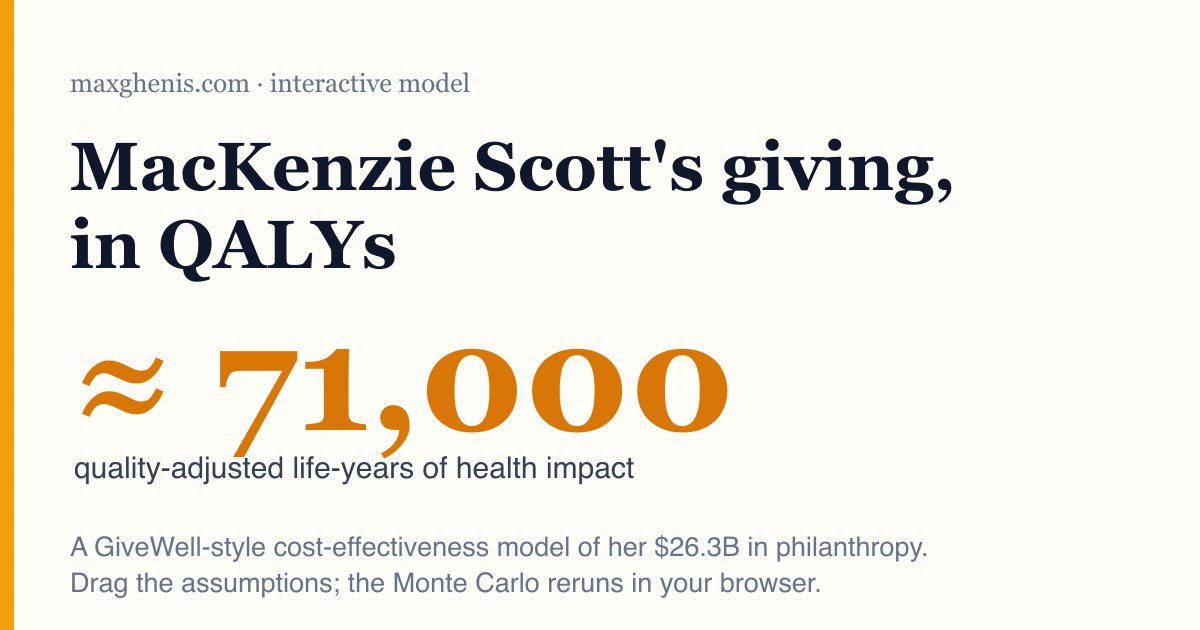
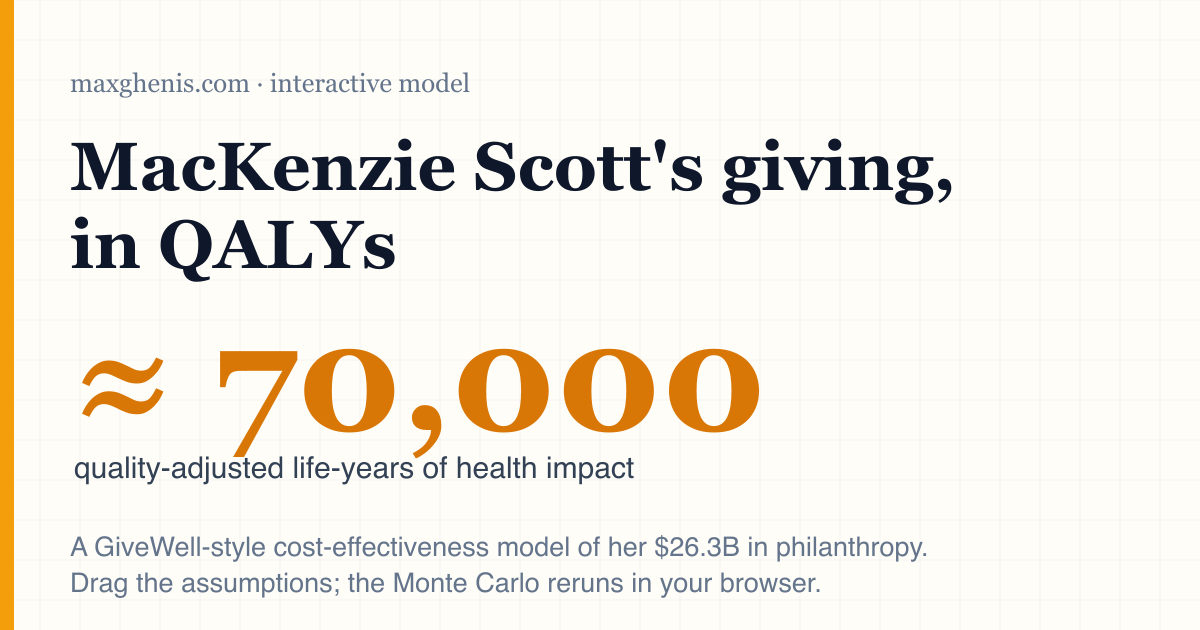
QALY round 7: impute undisclosed gifts from 990 revenue
Sync params (allocation now covers all $26.4B: disclosed two-thirds +
undisclosed third imputed from year residuals scaled by pre-gift IRS
990 revenue^0.41, matches audited by gpt-5.6-terra). Median ~70k,
credulous ~200k, blended $435k, frontier ~1,510x. Page, blog (round-7
sentence + prompts 26-29), og card, test reference updated.

Changed region(s): [[0.2467, 0.5429, 0.6475, 0.7238]]

diff --git a/scripts/generate-og-mackenzie.ts b/scripts/generate-og-mackenzie.ts
@@ -31,7 +31,7 @@ const svg = `
   <text x="70" y="190" font-family="Georgia, serif" font-weight="700" font-size="68" fill="${ink}">MacKenzie Scott's giving,</text>
   <text x="70" y="268" font-family="Georgia, serif" font-weight="700" font-size="68" fill="${ink}">in QALYs</text>
 
-  <text x="70" y="430" font-family="Georgia, serif" font-weight="700" font-size="150" fill="${amberDark}">≈ 71,000</text>
+  <text x="70" y="430" font-family="Georgia, serif" font-weight="700" font-size="150" fill="${amberDark}">≈ 70,000</text>
   <text x="74" y="478" font-family="Helvetica, Arial, sans-serif" font-size="30" fill="${inkSoft}">quality-adjusted life-years of health impact</text>
 
   <text x="70" y="556" font-family="Helvetica, Arial, sans-serif" font-size="27" fill="${inkMuted}">A GiveWell-style cost-effectiveness model of her $26.3B in philanthropy.</text>

diff --git a/src/lib/mackenzie-qaly.test.ts b/src/lib/mackenzie-qaly.test.ts
@@ -17,7 +17,7 @@ import {
 
 // Reference values from the Python model (n=100k seed=0, round 3):
 //   giving $30.30B (2026$, from $26.39B nominal disclosed tranches)
-//   median 70,398 · mean 77,251 · p05 37,809 · p95 139,018
+//   median 69,538 · mean 76,179 · p05 37,637 · p95 135,905
 //   blended $349,922/QALY · benefit-cost 2.12 (HHS VQALY) · frontier multiple 1,215
 // Monte Carlo output is RNG-sensitive, so we assert distributional agreement
 // with generous tolerances, not bit-parity.

diff --git a/src/content/blog/mackenzie-scott-giving-in-qalys/index.md b/src/content/blog/mackenzie-scott-giving-in-qalys/index.md
@@ -6,7 +6,7 @@ heroImage: './hero.png'
 projectUrl: '/mackenzie-scott-qaly'
 ---
 
-MacKenzie Scott gave away [$7 billion in 2025](https://www.cnbc.com/2025/12/13/mackenzie-scott-revealed-her-total-charitable-donations-for-2025.html) — [about a third of every megagift in America that year](https://fortune.com/2026/06/25/mackenzie-scott-largest-megadonor-2025-7-billion-donations-giving-usa-iu-report/), by the Indiana University Lilly Family School of Philanthropy's count. Almost none of it is denominated in health. I built an interactive tool that asks what her [$26 billion](https://yieldgiving.com/) in lifetime giving buys in the unit health economists use to compare lives — quality-adjusted life-years: **[maxghenis.com/mackenzie-scott-qaly](/mackenzie-scott-qaly)**. Drag the assumptions and a Monte Carlo cost-effectiveness model reruns in your browser; on the skeptical default it lands around 71,000 QALYs — a model output, not a measured fact, which is why the tool exists: move the assumptions yourself.
+MacKenzie Scott gave away [$7 billion in 2025](https://www.cnbc.com/2025/12/13/mackenzie-scott-revealed-her-total-charitable-donations-for-2025.html) — [about a third of every megagift in America that year](https://fortune.com/2026/06/25/mackenzie-scott-largest-megadonor-2025-7-billion-donations-giving-usa-iu-report/), by the Indiana University Lilly Family School of Philanthropy's count. Almost none of it is denominated in health. I built an interactive tool that asks what her [$26 billion](https://yieldgiving.com/) in lifetime giving buys in the unit health economists use to compare lives — quality-adjusted life-years: **[maxghenis.com/mackenzie-scott-qaly](/mackenzie-scott-qaly)**. Drag the assumptions and a Monte Carlo cost-effectiveness model reruns in your browser; on the skeptical default it lands around 70,000 QALYs — a model output, not a measured fact, which is why the tool exists: move the assumptions yourself.
 
 It runs the same machinery as the [GiveWell cost-effectiveness replication](/blog/givewell-cea/) I built in February — editable parameters, Monte Carlo, sensitivity analysis — pointed at a different question. GiveWell scores the most cost-effective charities in the world. This points the same lens at one donor's actual $26B portfolio, most of it unrestricted gifts to US organizations, where almost none of the spending is denominated in health to begin with.
 
@@ -22,7 +22,7 @@ I built this with two coding agents, and the more useful part was letting them c
 
 Two further full review rounds (both models, against everything) caught more, and the fixes moved the headline from ~98,000 to ~87,000: gifts are now recorded as the exact disclosed tranches and inflated to 2026 dollars year by year instead of divided nominal-vs-current; the community-health-center figure now uses the paper's own [~$54k per life-year](https://pmc.ncbi.nlm.nih.gov/articles/PMC4436657/) with an explicit life-year→QALY conversion (the old version skipped it); several 2000s-era cost-effectiveness anchors got inflated to current dollars; the frontier benchmark was re-derived twice — first for discounting consistency, then onto [GiveWell's current program averages](https://www.givewell.org/impact-estimates) — cutting the headline multiple by about 40%; the benefit/cost ratio now uses [HHS's published value per QALY](https://aspe.hhs.gov/reports/standard-ria-values) instead of a per-life-year value applied to QALYs; and one citation was re-attributed to the paper the numbers actually come from — [Sommers (2017)](https://www.journals.uchicago.edu/doi/10.1162/ajhe_a_00080), verified against the PDF, after I'd confidently planted the wrong one. Every correction made the model more skeptical or more honest, none was caught by a human, and the errors had survived earlier review passes.
 
-The allocation across causes was still my prior, though — I'd accepted "Scott doesn't publish dollars-by-cause" without checking hard enough. She publishes better: [Yield Giving's gift database](https://yieldgiving.com/gifts) itemizes dollar amounts for about two-thirds of the money, with focus areas on every disclosed dollar. Deriving the split from her own data — 53 org-reported areas mapped onto the model's 13 archetypes, [every rule documented](https://github.com/MaxGhenis/mackenzie-scott-qaly/blob/main/data/yieldgiving/leaf_to_archetype.yaml) — cut the skeptical median from ~87,000 to ~71,000. Her real portfolio holds less food, housing, and cash assistance than I'd assumed (the buckets with the strongest health evidence) and more workforce development and nonprofit infrastructure (which have almost none).
+The allocation across causes was still my prior, though — I'd accepted "Scott doesn't publish dollars-by-cause" without checking hard enough. She publishes better: [Yield Giving's gift database](https://yieldgiving.com/gifts) itemizes dollar amounts for about two-thirds of the money, with focus areas on every disclosed dollar. Deriving the split from her own data — 53 org-reported areas mapped onto the model's 13 archetypes, [every rule documented](https://github.com/MaxGhenis/mackenzie-scott-qaly/blob/main/data/yieldgiving/leaf_to_archetype.yaml) — cut the skeptical median from ~87,000 to ~70,000. Her real portfolio holds less food, housing, and cash assistance than I'd assumed (the buckets with the strongest health evidence) and more workforce development and nonprofit infrastructure (which have almost none). The undisclosed third isn't dropped: her essays give each year's total, so the residual is a known dollar amount, spread over that year's undisclosed gifts in proportion to the recipient's pre-gift [IRS 990 revenue](https://projects.propublica.org/nonprofits/) raised to an elasticity fit on the disclosed pairs (0.41 — her gifts scale sub-linearly with organization size), with the fuzzy name-to-EIN matches audited by a third model, a small one, against the live API. The imputed third moves each cause share by at most ~1.5 points — the disclosed two-thirds was representative.
 
 None of the model code was hand-written; the whole thing was natural-language prompting. For transparency, here is every prompt I typed, verbatim — typos and all.
 
@@ -55,6 +55,10 @@ None of the model code was hand-written; the whole thing was natural-language pr
 23. then could you just make the 90% interval below in small text instead of a separate card, also add to the $/qaly
 24. i dont get these two - whats the 2.1x wrt? whats 64.2b?
 25. scott doesnt publish *any* dollars by cause? i thought she at least published her list of orgs, like are we basing this on any real data?
+26. undisclosed ones can we do some research on, if need be we could scale by total revenue in the relevant year from 990s
+27. what model are we using for this
+28. i dont think we need fable for this fan out do we? could probably do like 5.6 terra or something
+29. yeah terra is the small codex tier, use it for the audit
 
 **To Codex:**
 